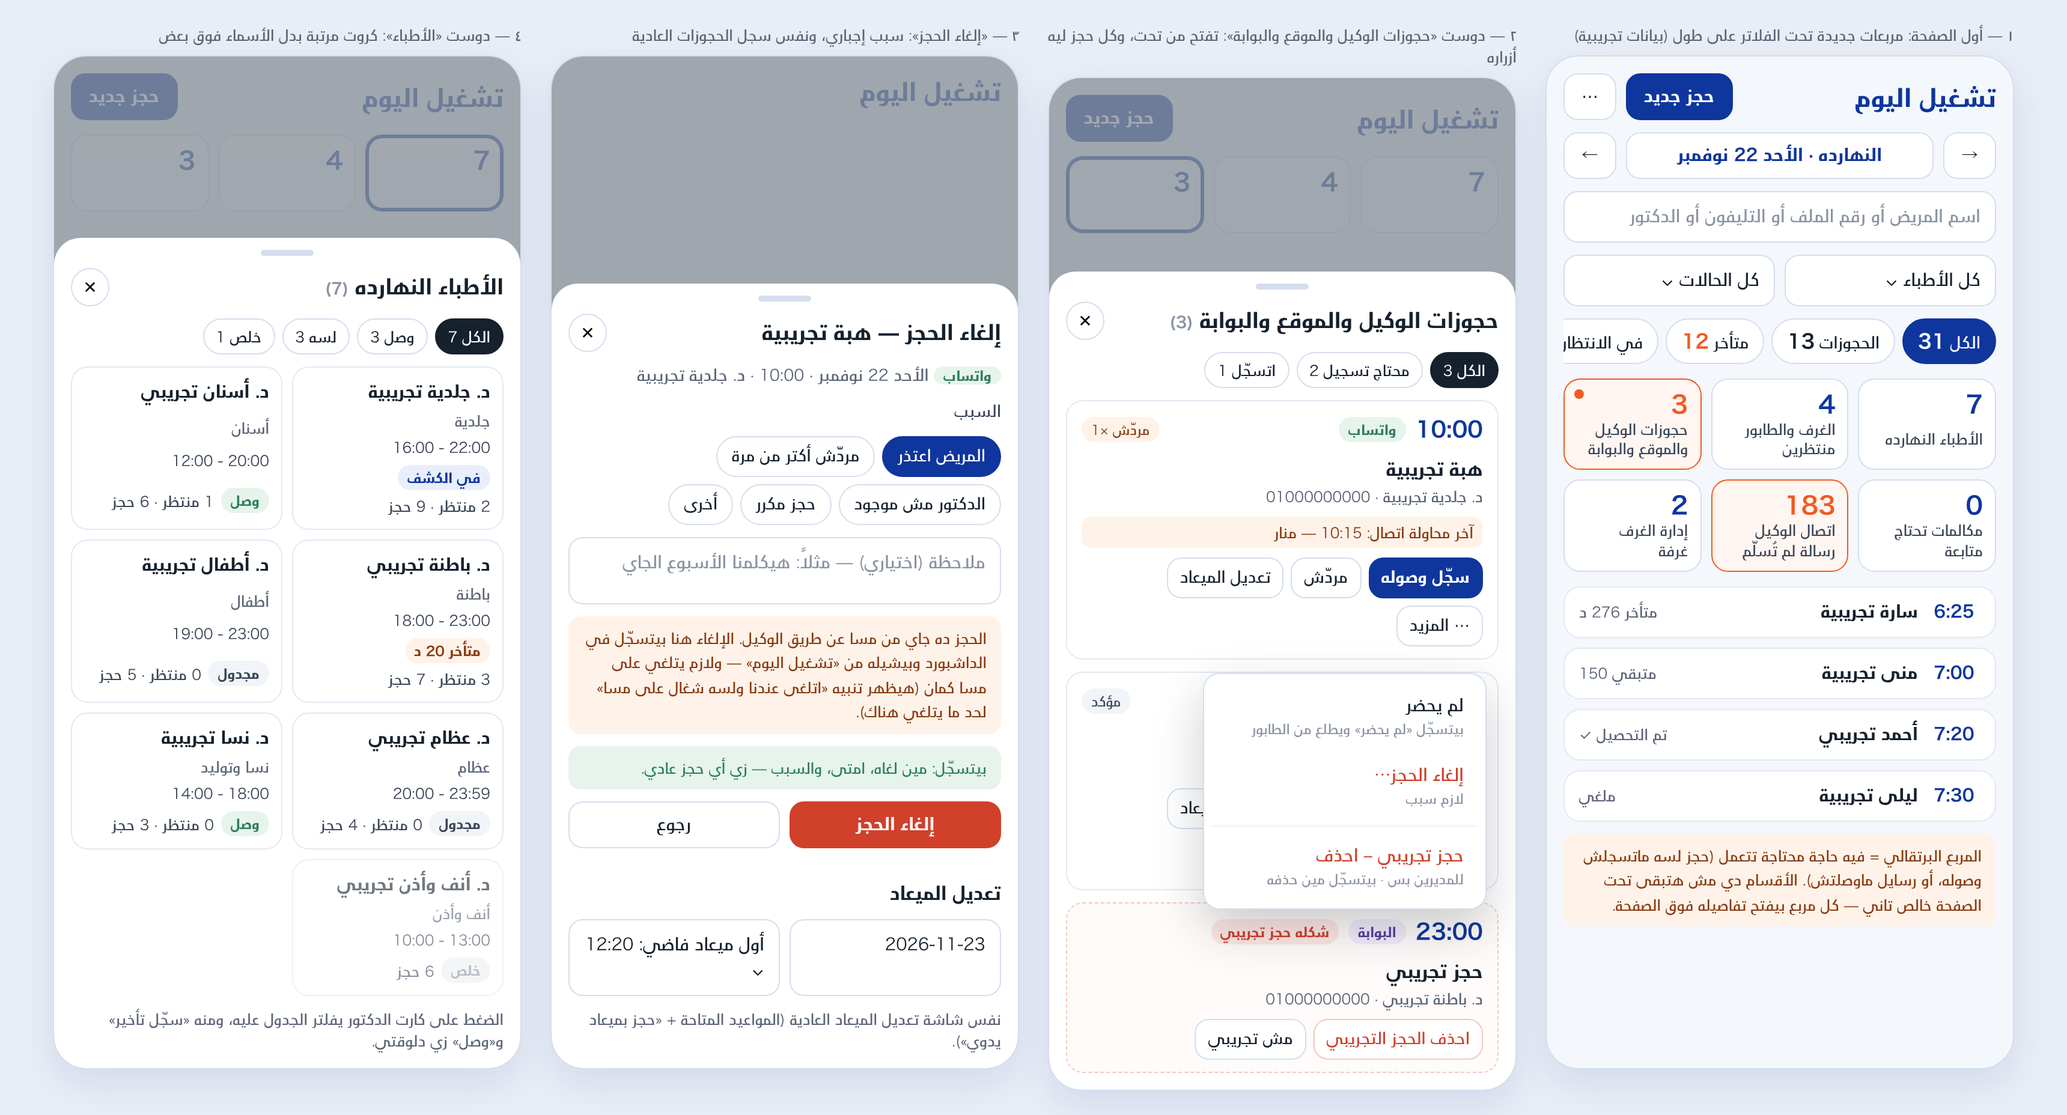
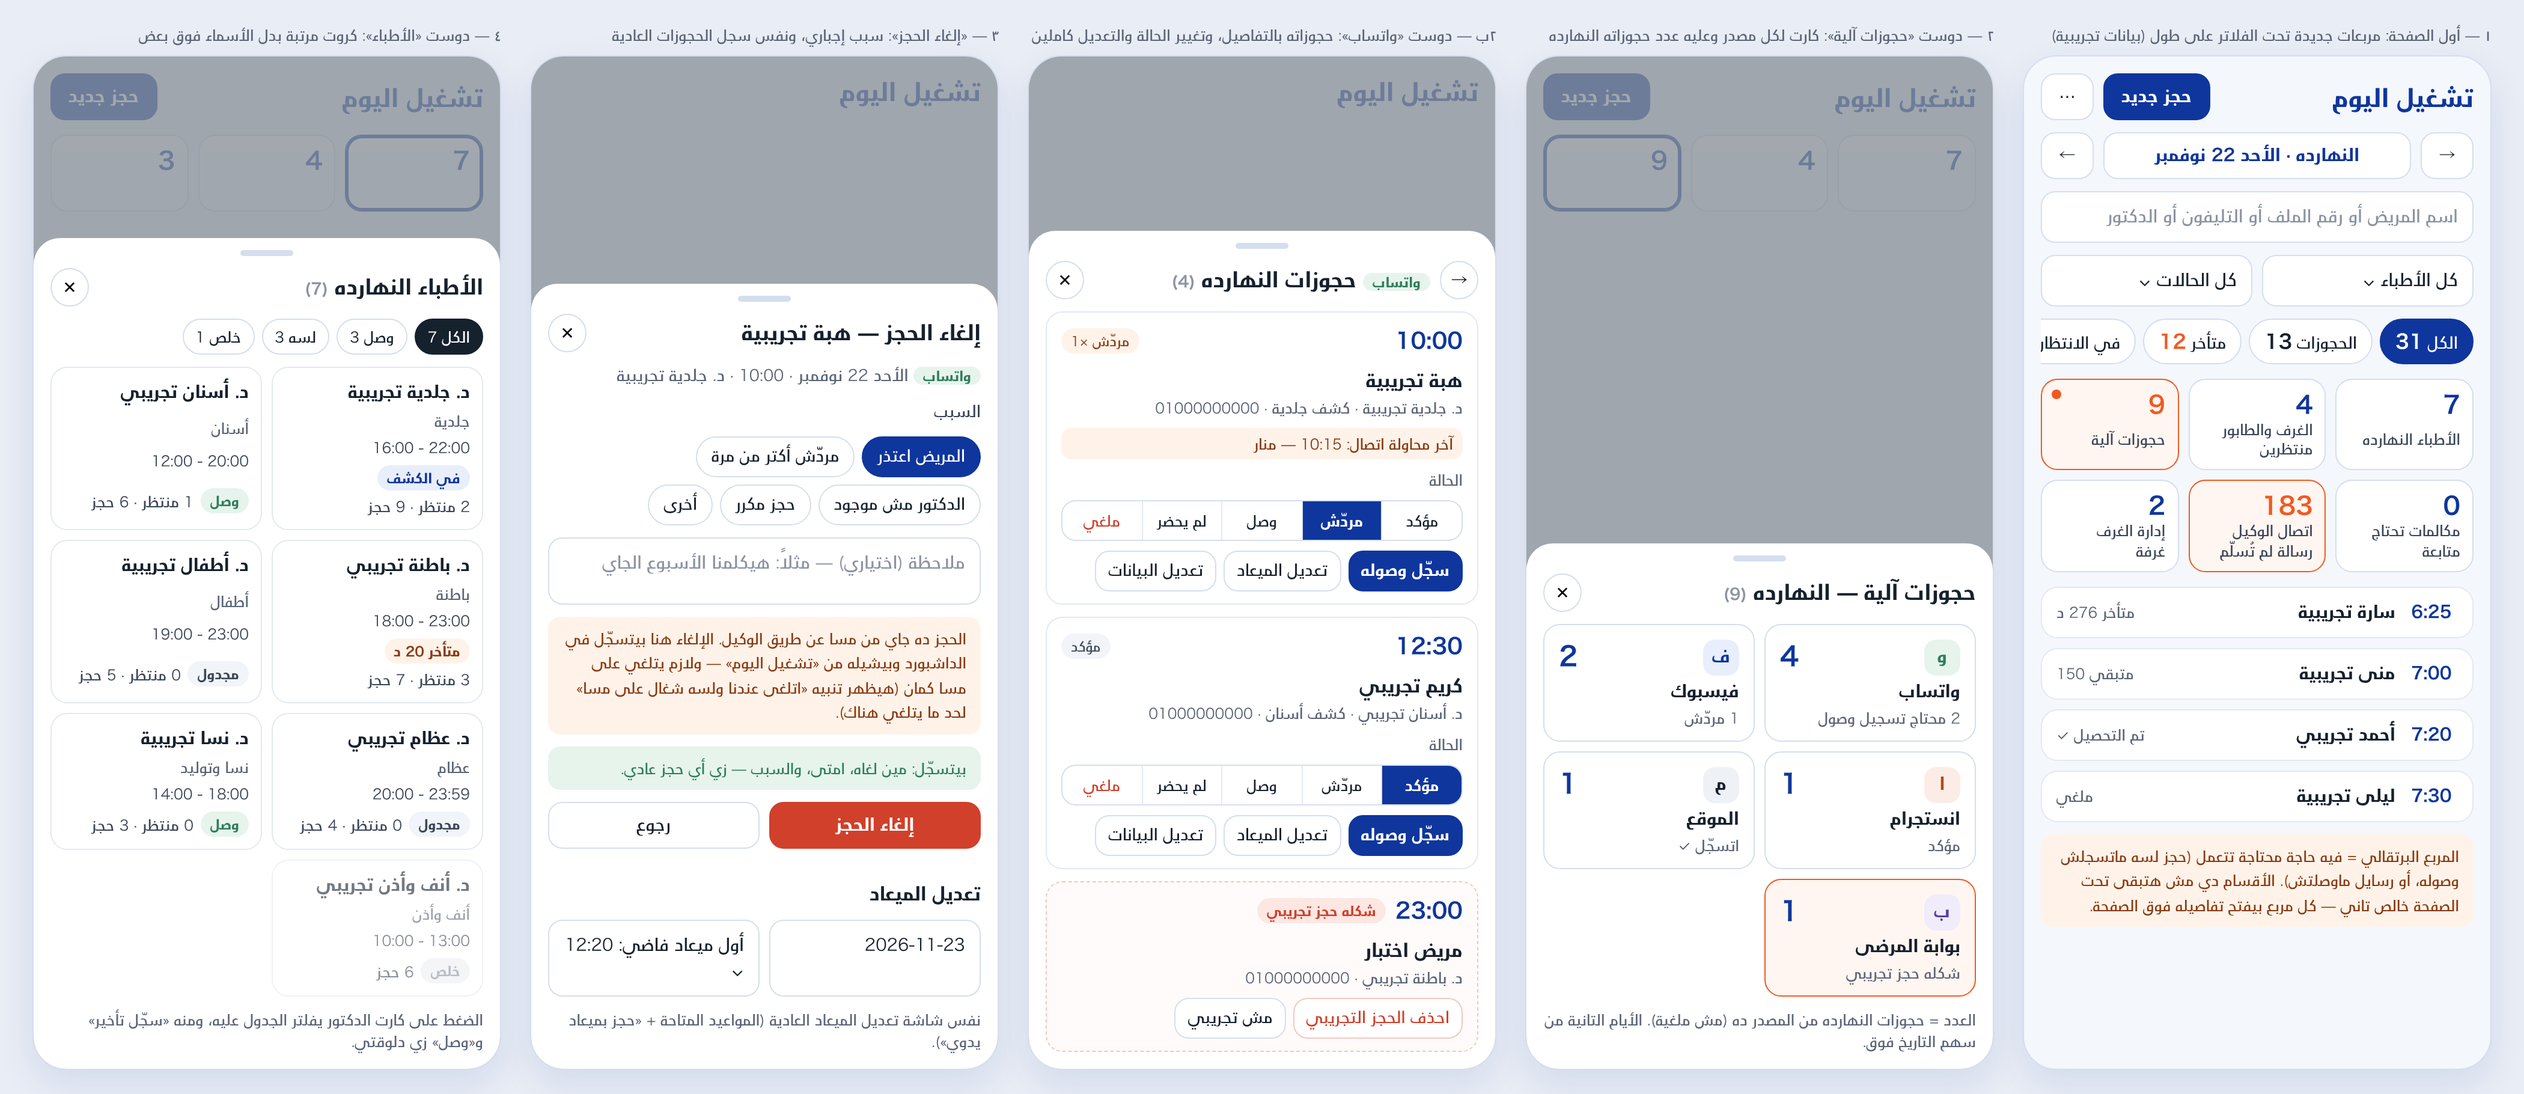
Mockup: «حجوزات آلية» tile with per-source cards (WhatsApp/Facebook/Instagram/website/portal) and status control
Claude-Session: https://claude.ai/code/session_01UqVZHa1WNN8bEGUYBvTA8M

Changed region(s): [[0.0, 0.0308, 0.9953, 0.9846]]

diff --git a/docs/ui-references/mockups/today-shortcuts.html b/docs/ui-references/mockups/today-shortcuts.html
@@ -8,8 +8,8 @@
 *{box-sizing:border-box}
 body{margin:0;background:#E9EDF5;font-family:"Hiragino Kaku","BigVesta Arabic",system-ui,Tahoma,sans-serif;color:#16212E;font-size:14px}
 .cap{margin:0 0 8px;font-size:12px;color:#5b6577}
-.stage{display:grid;gap:24px;padding:20px 12px;max-width:1720px;margin:0 auto}
-.phones{display:grid;grid-template-columns:repeat(4,390px);gap:24px;justify-content:center}
+.stage{display:grid;gap:24px;padding:20px 12px;max-width:2100px;margin:0 auto}
+.phones{display:grid;grid-template-columns:repeat(5,390px);gap:24px;justify-content:center}
 .phone{width:390px;background:#F4F7FC;border-radius:28px;border:1px solid #D5DEEE;overflow:hidden;position:relative;height:844px;box-shadow:0 12px 30px rgba(15,54,157,.10)}
 .pad{padding:14px}
 .head{display:flex;align-items:center;gap:8px}.head h2{margin:0;font-size:20px;color:#0F369D;flex:1}
@@ -69,6 +69,15 @@ body{margin:0;background:#E9EDF5;font-family:"Hiragino Kaku","BigVesta Arabic",s
 .ds{font-size:11px;border-radius:99px;padding:2px 8px;font-weight:700;white-space:nowrap}
 .ds.s{background:#F1F4F8;color:#3B4658}.ds.a{background:#E6F4EC;color:#2F7D5C}.ds.k{background:#E8EEFB;color:#0F369D}.ds.f{background:#EEF0F3;color:#8a93a3}.ds.l{background:#FFF3E9;color:#8A3A12}
 .doc.off{opacity:.6}
+.srcg{display:grid;grid-template-columns:repeat(2,minmax(0,1fr));gap:8px}
+.sct{font:inherit;text-align:start;background:#fff;border:1px solid #D5DEEE;border-radius:14px;padding:10px 12px;display:grid;grid-template-columns:auto 1fr;grid-template-areas:"ic n" "l l" "sub sub";gap:2px 8px;align-items:center;color:#16212E}
+.sct .ic{grid-area:ic;width:30px;height:30px;border-radius:10px;display:grid;place-items:center;font-weight:700;font-size:14px}
+.sct .n{grid-area:n;font-size:22px;font-weight:700;color:#0F369D;text-align:end}.sct .l{grid-area:l;font-weight:700}.sct .sub{grid-area:sub;font-size:12px;color:#5b6577}
+.sct.att{border-color:#F15A22;background:#FFF6F1}
+.ic.wa{background:#E6F4EC;color:#2F7D5C}.ic.fb{background:#E8EEFB;color:#0F369D}.ic.ig{background:#FBEDE6;color:#B4471A}.ic.web{background:#EEF1F6;color:#16212E}.ic.pt{background:#F1ECFA;color:#5B3FA0}
+.lbl{font-size:12px;color:#5b6577}
+.seg{display:flex;border:1px solid #D5DEEE;border-radius:12px;overflow:hidden}.seg span{flex:1;text-align:center;font-size:12px;padding:7px 2px;border-inline-start:1px solid #E3E8F2;white-space:nowrap}.seg span:first-child{border-inline-start:0}
+.seg span.on{background:#0F369D;color:#fff;font-weight:700}.seg span.r{color:#D0402A}
 /* desktop */
 .desk{width:1360px;margin:0 auto;background:#F4F7FC;border:1px solid #D5DEEE;border-radius:20px;overflow:hidden;position:relative;height:760px}
 .desk .wrap{padding:18px 22px;display:grid;gap:12px;width:880px}
@@ -92,7 +101,7 @@ body.m .desk-sec,body.m .legend{display:none}body.d .phones{display:none}
  <div class="sc">
   <button class="tile"><span class="n">7</span><span class="l">الأطباء النهارده</span></button>
   <button class="tile"><span class="n">4</span><span class="l">الغرف والطابور<br>منتظرين</span></button>
-  <button class="tile att"><i class="dot"></i><span class="n">3</span><span class="l">حجوزات الوكيل والموقع والبوابة</span></button>
+  <button class="tile att"><i class="dot"></i><span class="n">9</span><span class="l">حجوزات آلية</span></button>
   <button class="tile"><span class="n">0</span><span class="l">مكالمات تحتاج متابعة</span></button>
   <button class="tile att"><span class="n">183</span><span class="l">اتصال الوكيل<br>رسالة لم تُسلّم</span></button>
   <button class="tile"><span class="n">2</span><span class="l">إدارة الغرف<br>غرفة</span></button>
@@ -106,37 +115,54 @@ body.m .desk-sec,body.m .legend{display:none}body.d .phones{display:none}
  <p class="note" style="margin-top:10px">المربع البرتقالي = فيه حاجة محتاجة تتعمل (حجز لسه ماتسجلش وصوله، أو رسايل ماوصلتش). الأقسام دي مش هتبقى تحت الصفحة خالص تاني — كل مربع بيفتح تفاصيله فوق الصفحة.</p>
 </div></div></section>
 
-<!-- 2: sheet for agent / website / portal bookings -->
-<section><p class="cap">٢ — دوست «حجوزات الوكيل والموقع والبوابة»: تفتح من تحت، وكل حجز ليه أزراره</p>
+<!-- 2: «حجوزات آلية» sheet: one card per source -->
+<section><p class="cap">٢ — دوست «حجوزات آلية»: كارت لكل مصدر وعليه عدد حجوزاته النهارده</p>
 <div class="phone"><div class="pad dim">
  <div class="head"><h2>تشغيل اليوم</h2><button class="btn pri">حجز جديد</button></div>
- <div class="sc"><div class="tile"><span class="n">7</span></div><div class="tile"><span class="n">4</span></div><div class="tile on"><span class="n">3</span></div></div>
+ <div class="sc"><div class="tile"><span class="n">7</span></div><div class="tile"><span class="n">4</span></div><div class="tile on"><span class="n">9</span></div></div>
 </div><div class="veil"></div>
 <div class="sheet">
  <div class="grab"></div>
- <div class="sh"><h3>حجوزات الوكيل والموقع والبوابة <span style="color:#8a93a3;font-size:13px">(3)</span></h3><button class="x">✕</button></div>
- <div class="tabs"><span class="tab on">الكل 3</span><span class="tab">محتاج تسجيل 2</span><span class="tab">اتسجّل 1</span></div>
+ <div class="sh"><h3>حجوزات آلية — النهارده <span style="color:#8a93a3;font-size:13px">(9)</span></h3><button class="x">✕</button></div>
+ <div class="srcg">
+  <button class="sct"><span class="ic wa">و</span><span class="n">4</span><span class="l">واتساب</span><span class="sub">2 محتاج تسجيل وصول</span></button>
+  <button class="sct"><span class="ic fb">ف</span><span class="n">2</span><span class="l">فيسبوك</span><span class="sub">1 مردّش</span></button>
+  <button class="sct"><span class="ic ig">ا</span><span class="n">1</span><span class="l">انستجرام</span><span class="sub">مؤكد</span></button>
+  <button class="sct"><span class="ic web">م</span><span class="n">1</span><span class="l">الموقع</span><span class="sub">اتسجّل ✓</span></button>
+  <button class="sct att"><span class="ic pt">ب</span><span class="n">1</span><span class="l">بوابة المرضى</span><span class="sub">شكله حجز تجريبي</span></button>
+ </div>
+ <p class="cap" style="margin:0">العدد = حجوزات النهارده من المصدر ده (مش ملغية). الأيام التانية من سهم التاريخ فوق.</p>
+</div>
+</div></section>
+
+<!-- 2b: one source opened (WhatsApp) with full actions -->
+<section><p class="cap">٢ب — دوست «واتساب»: حجوزاته بالتفاصيل، وتغيير الحالة والتعديل كاملين</p>
+<div class="phone"><div class="pad dim">
+ <div class="head"><h2>تشغيل اليوم</h2></div>
+</div><div class="veil"></div>
+<div class="sheet">
+ <div class="grab"></div>
+ <div class="sh"><button class="x">→</button><h3><span class="src wa">واتساب</span> حجوزات النهارده <span style="color:#8a93a3;font-size:13px">(4)</span></h3><button class="x">✕</button></div>
  <div class="bk">
-  <div class="top"><span class="tm">10:00</span><span class="src wa">واتساب</span><span class="stc no">مردّش ×1</span></div>
-  <div class="who"><b>هبة تجريبية</b><span>د. جلدية تجريبية · <bdi dir="ltr">01000000000</bdi></span></div>
+  <div class="top"><span class="tm">10:00</span><span class="stc no">مردّش ×1</span></div>
+  <div class="who"><b>هبة تجريبية</b><span>د. جلدية تجريبية · كشف جلدية · <bdi dir="ltr">01000000000</bdi></span></div>
   <div class="tries">آخر محاولة اتصال: 10:15 — منار</div>
-  <div class="acts"><button class="btn pri sm">سجّل وصوله</button><button class="btn sm">مردّش</button><button class="btn sm">تعديل الميعاد</button><button class="btn sm">⋯ المزيد</button></div>
+  <div class="lbl">الحالة</div>
+  <div class="seg"><span>مؤكد</span><span class="on">مردّش</span><span>وصل</span><span>لم يحضر</span><span class="r">ملغي</span></div>
+  <div class="acts"><button class="btn pri sm">سجّل وصوله</button><button class="btn sm">تعديل الميعاد</button><button class="btn sm">تعديل البيانات</button></div>
  </div>
  <div class="bk">
-  <div class="top"><span class="tm">12:30</span><span class="src web">الموقع</span><span class="stc">مؤكد</span></div>
-  <div class="who"><b>كريم تجريبي</b><span>د. أسنان تجريبي · <bdi dir="ltr">01000000000</bdi></span></div>
-  <div class="acts"><button class="btn pri sm">سجّل وصوله</button><button class="btn sm">مردّش</button><button class="btn sm">تعديل الميعاد</button><button class="btn sm">⋯ المزيد</button></div>
+  <div class="top"><span class="tm">12:30</span><span class="stc">مؤكد</span></div>
+  <div class="who"><b>كريم تجريبي</b><span>د. أسنان تجريبي · كشف أسنان · <bdi dir="ltr">01000000000</bdi></span></div>
+  <div class="lbl">الحالة</div>
+  <div class="seg"><span class="on">مؤكد</span><span>مردّش</span><span>وصل</span><span>لم يحضر</span><span class="r">ملغي</span></div>
+  <div class="acts"><button class="btn pri sm">سجّل وصوله</button><button class="btn sm">تعديل الميعاد</button><button class="btn sm">تعديل البيانات</button></div>
  </div>
  <div class="bk test">
-  <div class="top"><span class="tm">23:00</span><span class="src pt">البوابة</span><span class="testtag">شكله حجز تجريبي</span></div>
-  <div class="who"><b>حجز تجريبي</b><span>د. باطنة تجريبي · <bdi dir="ltr">01000000000</bdi></span></div>
+  <div class="top"><span class="tm">23:00</span><span class="testtag">شكله حجز تجريبي</span></div>
+  <div class="who"><b>مريض اختبار</b><span>د. باطنة تجريبي · <bdi dir="ltr">01000000000</bdi></span></div>
   <div class="acts"><button class="btn warn sm">احذف الحجز التجريبي</button><button class="btn sm">مش تجريبي</button></div>
  </div>
-</div>
-<div class="menu" style="bottom:150px">
- <button>لم يحضر<small>بيتسجّل «لم يحضر» ويطلع من الطابور</small></button>
- <button class="r">إلغاء الحجز…<small>لازم سبب</small></button>
- <hr><button class="r">حجز تجريبي – احذف<small>للمديرين بس · بيتسجّل مين حذفه</small></button>
 </div>
 </div></section>
 
@@ -195,7 +221,7 @@ body.m .desk-sec,body.m .legend{display:none}body.d .phones{display:none}
  <div class="sc">
   <button class="tile"><span class="n">7</span><span class="l">الأطباء النهارده</span></button>
   <button class="tile"><span class="n">4</span><span class="l">الغرف والطابور · منتظرين</span></button>
-  <button class="tile att on"><i class="dot"></i><span class="n">3</span><span class="l">حجوزات الوكيل والموقع والبوابة</span></button>
+  <button class="tile att on"><i class="dot"></i><span class="n">9</span><span class="l">حجوزات آلية</span></button>
   <button class="tile"><span class="n">0</span><span class="l">مكالمات تحتاج متابعة</span></button>
   <button class="tile att"><span class="n">183</span><span class="l">اتصال الوكيل · رسالة متأخرة</span></button>
   <button class="tile"><span class="n">2</span><span class="l">إدارة الغرف · غرفة</span></button>
@@ -209,8 +235,8 @@ body.m .desk-sec,body.m .legend{display:none}body.d .phones{display:none}
  </div>
 </div>
 <aside class="drawer">
- <div class="sh"><h3>حجوزات الوكيل والموقع والبوابة <span style="color:#8a93a3;font-size:13px">(3)</span></h3><button class="x">✕</button></div>
- <div class="tabs"><span class="tab on">الكل 3</span><span class="tab">محتاج تسجيل 2</span><span class="tab">اتسجّل 1</span></div>
+ <div class="sh"><h3>حجوزات آلية — النهارده <span style="color:#8a93a3;font-size:13px">(9)</span></h3><button class="x">✕</button></div>
+ <div class="tabs" style="flex-wrap:wrap"><span class="tab on">واتساب 4</span><span class="tab">فيسبوك 2</span><span class="tab">انستجرام 1</span><span class="tab">الموقع 1</span><span class="tab">بوابة المرضى 1</span></div>
  <div class="bk">
   <div class="top"><span class="tm">10:00</span><span class="src wa">واتساب</span><span class="stc no">مردّش ×1</span></div>
   <div class="who"><b>هبة تجريبية</b><span>د. جلدية تجريبية · <bdi dir="ltr">01000000000</bdi></span></div>
@@ -230,7 +256,7 @@ body.m .desk-sec,body.m .legend{display:none}body.d .phones{display:none}
 
 <div class="legend">
 <b>الأطباء:</b> كروت في عمودين (موبايل) أو 3 (كمبيوتر): الاسم، التخصص، مواعيد النهارده، الحالة (مجدول / وصل / في الكشف / متأخر / خلص)، وعدد المنتظرين والحجوزات.<br><b>المربعات فوق:</b> الأطباء · الغرف والطابور (مع «نادِ التالي») · حجوزات الوكيل والموقع والبوابة · مكالمات تحتاج متابعة · اتصال الوكيل · إدارة الغرف (للمسؤول بس). كل مربع عليه عدد، والبرتقالي يعني فيه حاجة مستنياك. الأقسام دي بتتشال من آخر الصفحة.<br>
-<b>أزرار كل حجز:</b> سجّل وصوله · مردّش (بيتسجّل محاولة اتصال بالوقت واسم الموظف، وبيبان «مردّش ×2») · تعديل الميعاد · لم يحضر · إلغاء الحجز (سبب إجباري). كله بنفس حالات وسجل الحجوزات العادية، وعلى كل حجز مصدره: واتساب / الموقع / البوابة.<br>
+<b>حجوزات آلية:</b> كارت واحد فوق، جواه كارت لكل مصدر (واتساب · فيسبوك · انستجرام · الموقع · بوابة المرضى) عليه عدده؛ الضغط عليه يفتح حجوزاته.<br><b>أزرار كل حجز:</b> سجّل وصوله · مردّش (بيتسجّل محاولة اتصال بالوقت واسم الموظف، وبيبان «مردّش ×2») · تعديل الميعاد · لم يحضر · إلغاء الحجز (سبب إجباري). كله بنفس حالات وسجل الحجوزات العادية، وعلى كل حجز مصدره: واتساب / الموقع / البوابة.<br>
 <b>الحجوزات التجريبية:</b> اللي فيها «تجربة/تجريبي/اختبار» أو الرقم 01000000000 بيظهر عليها «شكله حجز تجريبي» وزرار «احذف الحجز التجريبي» للمديرين بس (بيتسجّل مين حذفه)، أو «مش تجريبي» لو الاسم حقيقي.
 </div>
 </div></body></html>
